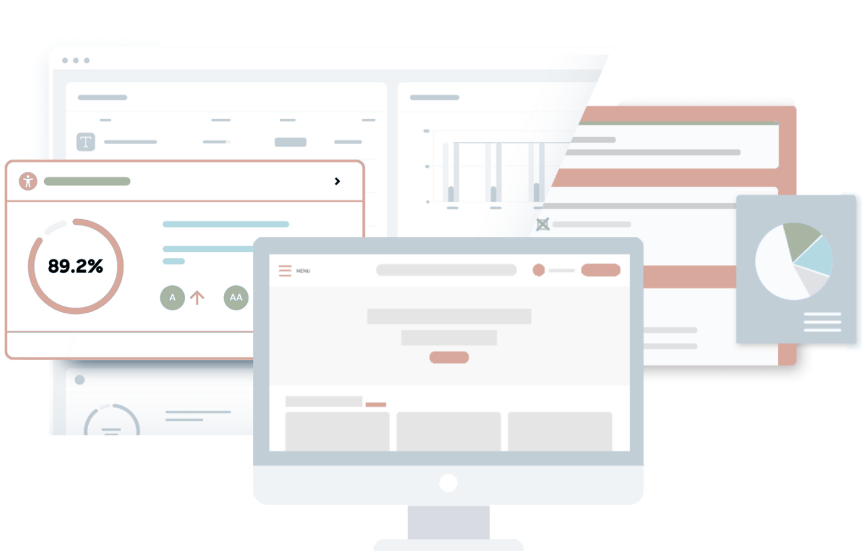
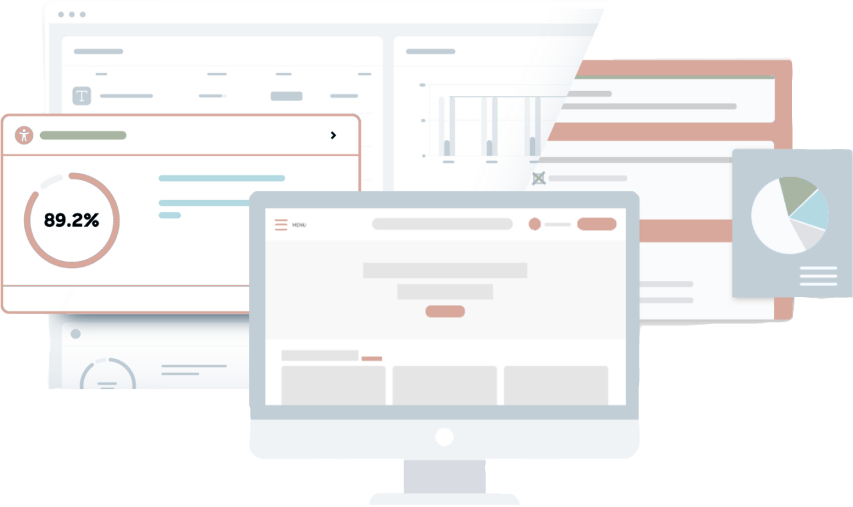
update saas homepage content

diff --git a/src/main/webapp/resources/css/saas/home.css b/src/main/webapp/resources/css/saas/home.css
@@ -1,11 +1,5 @@
 @charset "UTF-8";
 
-.presentation-container img {
-	display: block;
-	margin: 0 auto;
-	height: 30vw;
-}
-
 .ctas-home {
 	display: flex;
 	align-items: center;
@@ -16,6 +10,68 @@
 
 .btn-home {
 	width: 250px;
+}
+
+.btn-secondary-g {
+	border-radius: 30px;
+	padding: 15px 50px;
+	background-color: #a8b5a2;
+	color: black;
+	font-weight: 600;
+	border: none;
+}
+
+.presentation-img {
+     position: relative;
+}
+
+.presentation-img img {
+     display: block;
+     margin: 0 auto;
+     height: 30vw;
+}
+
+.text1 {
+     position: absolute;
+     top: 43%;
+     left: 25%;
+     transform: translate(-50%, -50%);
+}
+
+.text2 {
+     position: absolute;
+     top: 13%;
+     left: 75%;
+     transform: translate(-50%, -50%);
+}
+
+.text3 {
+     position: absolute;
+     top: 62%;
+     left: 55%;
+     transform: translate(-50%, -50%);
+}
+
+.btn-secondary-g:hover {
+	cursor: default;
+}
+
+.btn-secondary-o {
+	border-radius: 30px;
+	padding: 15px 50px;
+	background-color: #d9a89c;
+	color: black;
+	font-weight: 600;
+	border: none;
+}
+
+.btn-secondary-b {
+	border-radius: 30px;
+	padding: 15px 50px;
+	background-color: #b3d9e2;
+	color: black;
+	font-weight: 600;
+	border: none;
 }
 
 .features {
@@ -131,6 +187,13 @@
 	.amap {
 		width: 30%;
 	}
+	.presentation-img {
+	font-size: 14px;
+}
+	.text2 {
+     left: 55%;
+}
+	
 }
 
 /* ------------------------ Format mobile ---------------------------*/
@@ -148,4 +211,29 @@
 	h3 {
 		margin-top: 20px;
 	}
+		.presentation-img {
+	font-size: 12px;
+}
+
+.btn-secondary-o {
+	padding: 15px 20px;
+}
+
+.btn-secondary-g {
+	padding: 15px 20px;
+}
+
+.btn-secondary-b {
+	padding: 15px 20px;
+}
+	.text2 {
+     top: 10%;
+     left: 50%;
+}
+
+.text3 {
+     top: 80%;
+     left: 40%;
+}
+	
 }

diff --git a/src/main/webapp/resources/js/themes.js b/src/main/webapp/resources/js/themes.js
@@ -34,10 +34,10 @@ document.getElementById("theme1").addEventListener("click", function () {
 	        // Valeurs prédéfinies pour le Thème 2
 	        const themeValues = {
 	            primaryColor: "#D6B4E7",
-	            secondaryColor: "#D1D1D1",
-	            tertiaryColor: "#FAFAFA",
+	            secondaryColor: "#E1E1E1",
+	            tertiaryColor: "#F2F2F2",
 	            police: "CALIBRI",
-	            isRoundedBorders: true
+	            isRoundedBorders: false
 	        };
 
 	        // Applique les valeurs prédéfinies
